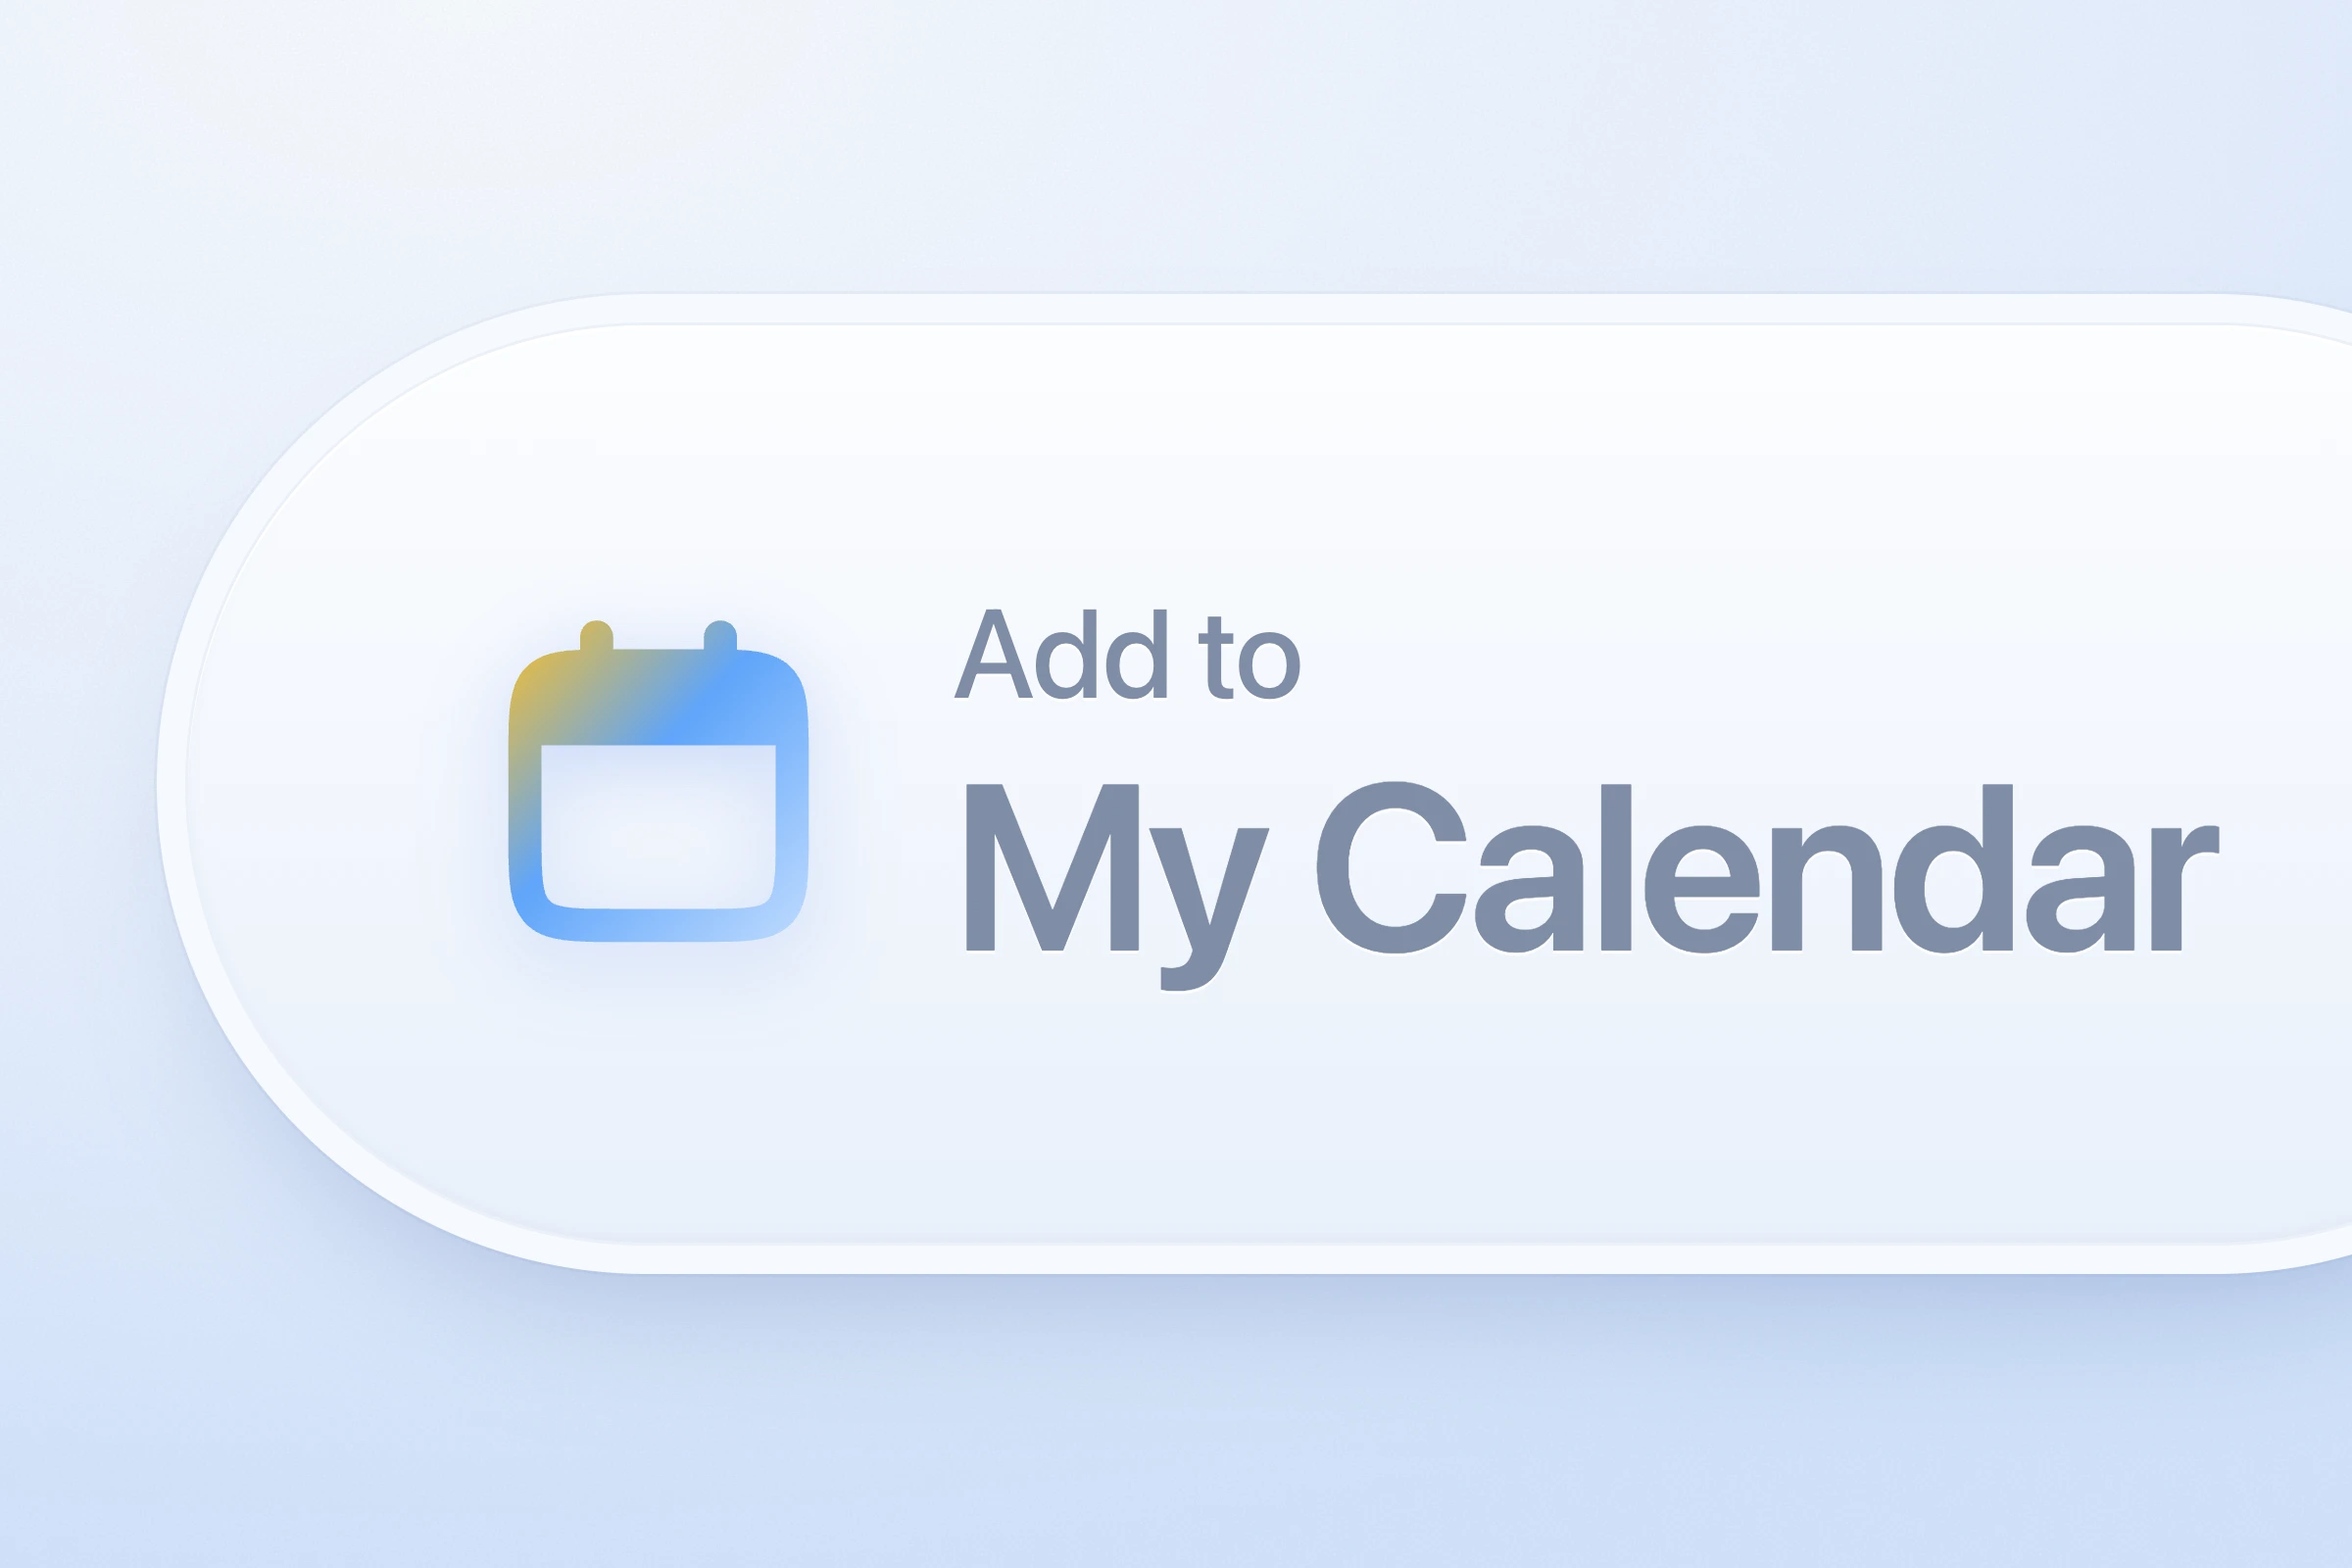
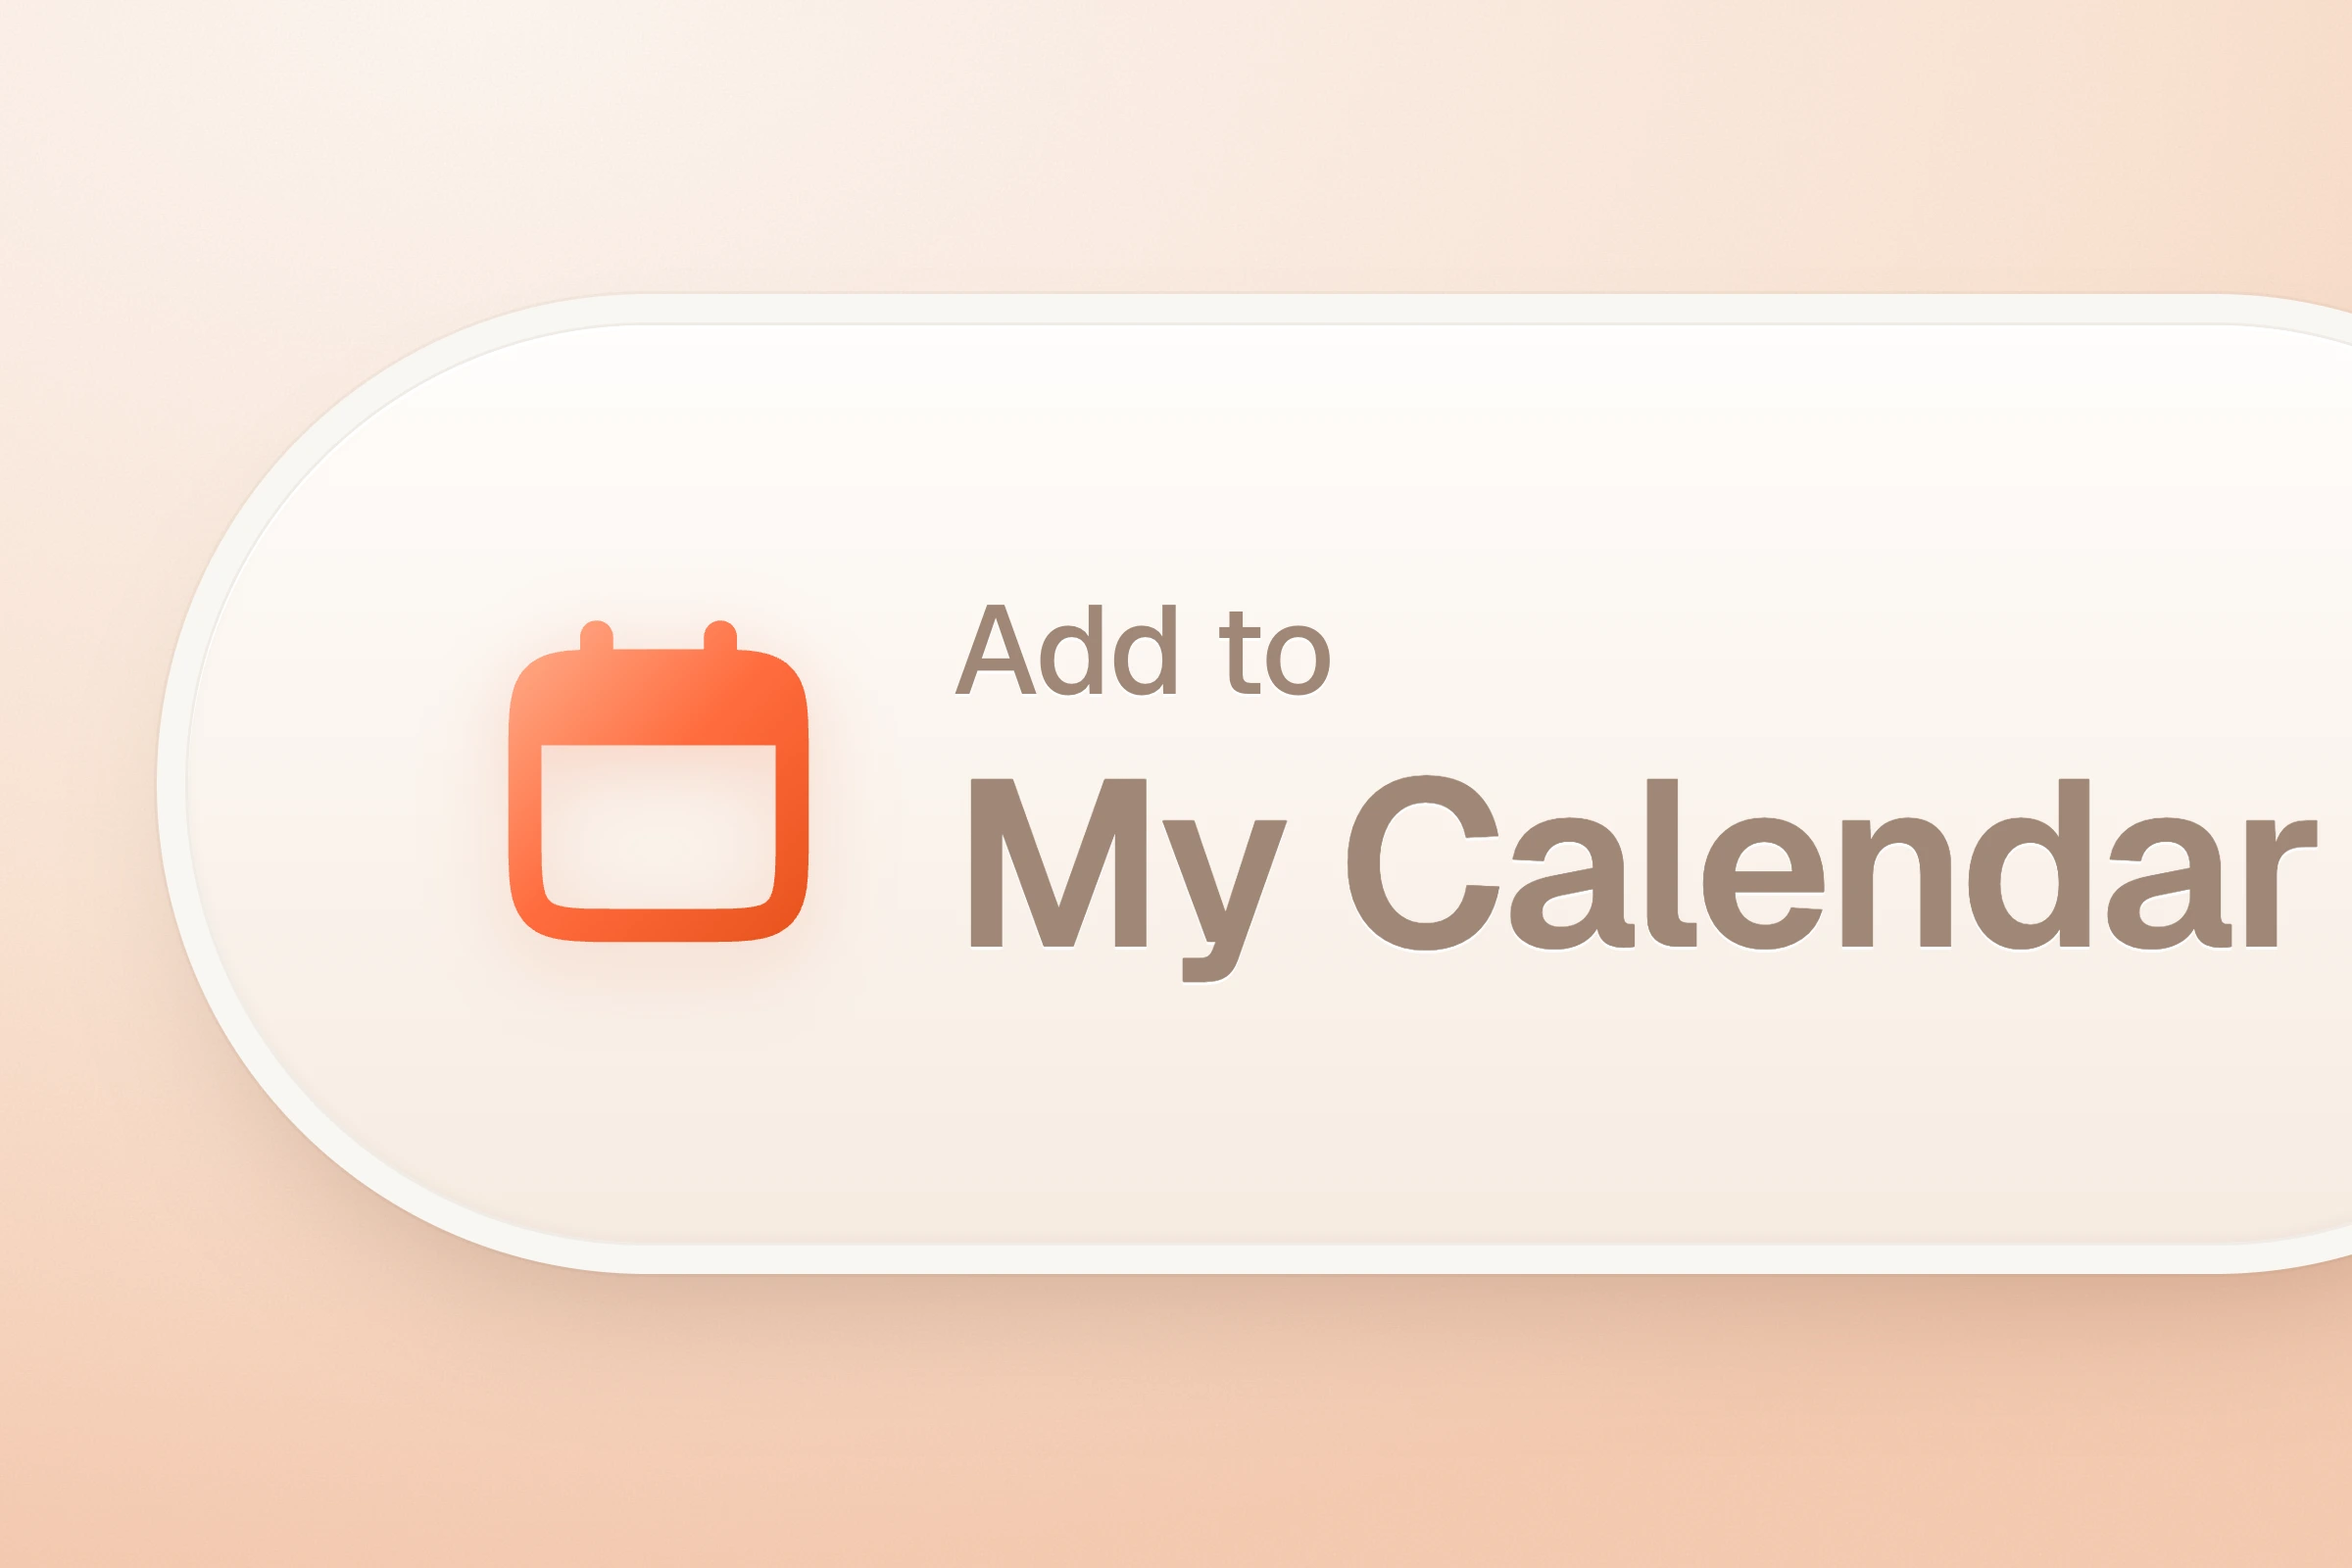
Website: calendar scene back, hero proof row, README badges, sponsor button
Add to calendar returns (seven screens) on a soft peach brand gradient, with the scene's blue-grey text and cool fill warmed; the clouds frame shares that gradient. The New in 1.3 strip is removed from home (the /icons filter and tags stay). Live GitHub stars and weekly npm downloads now sit under the hero buttons. README: tangerine colour examples, stars/npm/pub.dev/license badges, a Support section. .github/FUNDING.yml adds the Sponsor button (needs GitHub Sponsors enabled for Sarthak102).

diff --git a/web/src/components/scenes/Scenes.tsx b/web/src/components/scenes/Scenes.tsx
@@ -32,7 +32,7 @@ function Frame({ dark, soft, photo, children }: { dark?: boolean; soft?: boolean
     : dark
       ? `${noise("1", 0.05)}, radial-gradient(110% 90% at 50% 0%, #2a1d16, #0b0b0d 70%)`
       : soft
-        ? `${noise("0.05", 0.05)}, radial-gradient(120% 100% at 20% 0%, #fdfaf6, #f6efe7 60%, #efe4d8)`
+        ? `${noise("0.05", 0.05)}, radial-gradient(120% 100% at 20% 0%, #fff8f2, #fde6d6 58%, #f8cdb3)`
         : `${noise("0.05", 0.06)}, radial-gradient(120% 100% at 30% 0%, #fdfaf6, #f3e9df 58%, #ead9c8)`;
   return (
     <div className={`relative h-[800px] w-[1200px] overflow-hidden ${dark ? "text-[#e7f0ff]" : "text-[#141412]"}`} style={{ background: bg }}>
@@ -843,17 +843,17 @@ function AddCalendar() {
   return (
     <Frame soft>
       <div className="absolute left-[80px] top-[150px] h-[500px] w-[1300px] rounded-full bg-[#f8f6f2] p-[16px] shadow-[0_0_0_1.5px_rgb(80_45_20/0.04),0_40px_80px_-40px_rgb(80_45_20/0.3)]">
-        <div className="flex h-full items-center gap-[60px] rounded-full bg-[linear-gradient(180deg,#fffdfb,#e9f0fa)] pl-[150px] shadow-[inset_0_2px_0_#fff,inset_0_-2px_6px_rgb(80_45_20/0.04),0_0_0_1.5px_rgb(80_45_20/0.05)]">
+        <div className="flex h-full items-center gap-[60px] rounded-full bg-[linear-gradient(180deg,#fffdfb,#f6ebe1)] pl-[150px] shadow-[inset_0_2px_0_#fff,inset_0_-2px_6px_rgb(80_45_20/0.04),0_0_0_1.5px_rgb(80_45_20/0.05)]">
           <CalendarSolid size={180} color="url(#add-cal)" className="shrink-0 drop-shadow-[0_10px_20px_rgb(232_82_28/0.22)]">
             <defs>
               <linearGradient id="add-cal" x1="0" y1="0" x2="1" y2="1">
-                <stop offset="0" stopColor="#fbbf24" />
-                <stop offset=".45" stopColor="#ff8a63" />
-                <stop offset="1" stopColor="#fcd2bf" />
+                <stop offset="0" stopColor="#ffb08f" />
+                <stop offset=".5" stopColor="#ff6b3d" />
+                <stop offset="1" stopColor="#e8521c" />
               </linearGradient>
             </defs>
           </CalendarSolid>
-          <div className="leading-none text-[#7f8da6] [text-shadow:0_1.5px_0_#fff]">
+          <div className="leading-none text-[#a08878] [text-shadow:0_1.5px_0_#fff]">
             <p className="text-[64px] font-medium tracking-[-0.01em]">Add to</p>
             <p className="mt-4 whitespace-nowrap text-[120px] font-semibold tracking-[-0.02em]">My Calendar</p>
           </div>

diff --git a/web/src/app/globals.css b/web/src/app/globals.css
@@ -663,20 +663,11 @@ input[type="range"]:disabled { opacity: 0.35; }
 @media (max-width: 560px) { .gh svg + .gh-n { display: none; } }
 @media (max-width: 640px) { .nav-end .btn { display: none; } .nav-inner { gap: 16px; } }
 
-/* New in the latest release */
-.new-strip { margin-top: -72px; padding-bottom: 72px; }
-.new-head { display: flex; flex-wrap: wrap; align-items: center; gap: 12px 16px; }
-.new-head p { margin: 0; color: var(--text-2); }
-.new-head p b { color: var(--text); font-weight: 500; }
-.new-all { margin-left: auto; display: inline-flex; align-items: center; gap: 6px; font-size: 14px; color: var(--accent-text); }
-.new-all svg { transition: transform var(--mid) var(--ease); }
-.new-all:hover svg { transform: translateX(3px); }
-.new-row { margin-top: 16px; display: grid; grid-template-columns: repeat(24, 1fr); gap: 6px; }
-@media (max-width: 1100px) { .new-row { grid-template-columns: repeat(12, 1fr); } }
-@media (max-width: 600px) { .new-row { grid-template-columns: repeat(8, 1fr); } .new-row a:nth-child(n+17) { display: none; } }
-.new-cell { position: relative; aspect-ratio: 1; display: grid; place-items: center; border-radius: 10px; border: 1px solid var(--line); background: var(--surface); color: var(--text-2); transition: color var(--fast) var(--ease), background-color var(--fast) var(--ease); }
-.new-cell::after { content: ""; position: absolute; top: 5px; right: 5px; width: 5px; height: 5px; border-radius: 50%; background: var(--accent); }
-.new-cell:hover { color: var(--accent); background: var(--accent-soft); }
+/* Hero proof row: live stars and weekly downloads */
+.proof { margin-top: 24px; display: flex; flex-wrap: wrap; align-items: center; gap: 8px 20px; font-size: 13px; color: var(--text-3); }
+.proof a { display: inline-flex; align-items: center; gap: 7px; transition: color var(--fast) var(--ease); }
+.proof a:hover { color: var(--text); }
+.proof .gh-n { padding-left: 2px; }
 
 /* ⌘K search */
 .nav-search { display: inline-flex; align-items: center; gap: 8px; height: 32px; padding: 0 6px 0 10px; border-radius: 8px; border: 1px solid var(--line); color: var(--text-3); font-size: 13px; transition: color var(--fast) var(--ease), background-color var(--fast) var(--ease); }

diff --git a/web/src/components/home/Hero.tsx b/web/src/components/home/Hero.tsx
@@ -1,6 +1,9 @@
 import Link from "next/link";
 import { ArrowRightIcon } from "@softstroke/react";
-import { siAngular, siExpo, siFlutter, siJsdelivr, siNextdotjs, siNpm, siReact, siSvelte, siSvg, siVuedotjs } from "simple-icons";
+import { siAngular, siExpo, siFlutter, siGithub, siJsdelivr, siNextdotjs, siNpm, siReact, siSvelte, siSvg, siVuedotjs } from "simple-icons";
+import { GITHUB_URL } from "@/lib/site";
+import { Downloads } from "../Downloads";
+import { Stars } from "../Stars";
 import { nodes } from "@/lib/glyph";
 import { CopyCommand } from "../CopyCommand";
 import { IconsLink } from "../IconsLink";
@@ -35,6 +38,11 @@ export function Hero() {
                 Browse icons <ArrowRightIcon size={18} className="arrow" />
               </IconsLink>
               <CopyCommand command="npm i @softstroke/react" />
+            </div>
+            <div className="proof fade-in" style={{ animationDelay: "650ms" }}>
+              <a href={GITHUB_URL}><Brand logo={siGithub} size={15} />GitHub<Stars /></a>
+              <a href="https://www.npmjs.com/org/softstroke"><Brand logo={siNpm} size={15} />npm<Downloads /></a>
+              <span>MIT licensed</span>
             </div>
           </div>
           <Specimen items={items} />

diff --git a/web/src/components/use-cases.ts b/web/src/components/use-cases.ts
@@ -5,6 +5,7 @@ export type UseCase = { id: string; title: string; body: string; icons: string[]
 export const USE_CASES: UseCase[] = [
   { id: "bento", title: "App cards", body: "Weather, health, smart home and music cards. Tabs rest in stroke, the active one turns solid.", icons: ["inbox", "calendar", "sticky-note", "bookmark", "cloud-sun", "moon"] },
   { id: "soft-menu", title: "Account menu", body: "A soft dropdown with icons at 38px, next to large text.", icons: ["user", "puzzle", "sliders", "help-circle", "log-out"] },
+  { id: "add-calendar", title: "Call to action", body: "A big double-rimmed button with the solid calendar, filled with a gradient through the color prop.", icons: ["calendar"] },
   { id: "dashboard", title: "Analytics dashboard", body: "Sidebar navigation, stat cards and toolbar buttons at 20 to 22px.", icons: ["home", "bar-chart", "inbox", "users", "credit-card", "bell"] },
   { id: "clouds-bar", title: "Glass tab bar", body: "White stroke icons on frosted glass over a photo.", icons: ["home", "search-sparkle", "bookmark"] },
   { id: "glass-bar", title: "Floating tab bar", body: "The active tab in solid, the rest in stroke.", icons: ["home", "map-pin", "bag", "settings", "search"] },

diff --git a/web/src/app/page.tsx b/web/src/app/page.tsx
@@ -6,7 +6,6 @@ import { IconRows } from "@/components/home/IconRows";
 import { Install } from "@/components/home/Install";
 import { LiveScreens } from "@/components/home/LiveScreens";
 import { Maker } from "@/components/home/Maker";
-import { NewStrip } from "@/components/home/NewStrip";
 import { Sheet } from "@/components/home/Sheet";
 import { States } from "@/components/home/States";
 import { Stats } from "@/components/home/Stats";
@@ -21,7 +20,6 @@ export default function Home() {
         <IconRows />
         <States />
         <Sheet />
-        <NewStrip />
         <Cases />
         <LiveScreens />
         <Install />

diff --git a/web/src/components/home/Cases.tsx b/web/src/components/home/Cases.tsx
@@ -6,7 +6,7 @@ import { CasesPin } from "./CasesPin";
 // 03: the use cases in a pinned gallery that scrolls sideways.
 export function Cases() {
   return (
-    <CasesPin count={USE_CASES.length} head={<><p className="eyebrow"><b>03</b> Use cases</p><h2 className="display h2" data-split><Words>Six screens, one icon set</Words></h2></>}>
+    <CasesPin count={USE_CASES.length} head={<><p className="eyebrow"><b>03</b> Use cases</p><h2 className="display h2" data-split><Words>Seven screens, one icon set</Words></h2></>}>
       {USE_CASES.map((c, i) => <CaseCard key={c.id} c={c} i={i} />)}
     </CasesPin>
   );

diff --git a/README.md b/README.md
@@ -9,6 +9,13 @@
 </p>
 
 <p align="center">
+  <a href="https://github.com/softstroke/softstroke/stargazers"><img src="https://img.shields.io/github/stars/softstroke/softstroke?style=flat&color=e8521c&labelColor=141412" alt="GitHub stars"></a>
+  <a href="https://www.npmjs.com/package/@softstroke/react"><img src="https://img.shields.io/npm/dw/@softstroke/react?style=flat&color=e8521c&labelColor=141412&label=npm" alt="Weekly npm downloads"></a>
+  <a href="https://pub.dev/packages/softstroke"><img src="https://img.shields.io/pub/v/softstroke?style=flat&color=e8521c&labelColor=141412&label=pub.dev" alt="pub.dev version"></a>
+  <a href="LICENSE"><img src="https://img.shields.io/badge/license-MIT-e8521c?style=flat&labelColor=141412" alt="MIT license"></a>
+</p>
+
+<p align="center">
   <a href="https://softstroke.github.io/softstroke/"><strong>Browse the icons</strong></a>
   &nbsp;·&nbsp;
   <a href="https://softstroke.github.io/softstroke/docs/">Docs</a>
@@ -54,7 +61,7 @@ import { HomeIcon, BellIcon } from '@softstroke/react';
 import { HomeIcon as HomeSolidIcon } from '@softstroke/react/solid';
 
 <HomeIcon />                                   // 24px, inherits the text color
-<HomeSolidIcon color="#2563eb" />              // the same icon, solid
+<HomeSolidIcon color="#e8521c" />              // the same icon, solid
 <BellIcon size={20} strokeWidth={2} aria-label="Notifications" />
 ```
 
@@ -97,7 +104,7 @@ import { HomeIcon as HomeSolidIcon } from '@softstroke/vue/solid';
 
 <template>
   <HomeIcon :size="24" />
-  <HomeSolidIcon color="#2563eb" />
+  <HomeSolidIcon color="#e8521c" />
 </template>
 ```
 </details>
@@ -116,7 +123,7 @@ npm i @softstroke/svelte
 </script>
 
 <HomeIcon size={24} />
-<HomeSolidIcon color="#2563eb" />
+<HomeSolidIcon color="#e8521c" />
 ```
 </details>
 
@@ -135,7 +142,7 @@ import { HomeIcon as HomeSolidIcon } from '@softstroke/angular/solid';
 
 @Component({
   imports: [HomeIcon, HomeSolidIcon],
-  template: `<ss-home [size]="24" /> <ss-home-solid color="#2563eb" aria-label="Home" />`,
+  template: `<ss-home [size]="24" /> <ss-home-solid color="#e8521c" aria-label="Home" />`,
 })
 export class Toolbar {}
 ```
@@ -225,6 +232,10 @@ python3 scripts/bbox.py <names>           Live area and centring
 .venv/bin/python scripts/font.py          Rebuild the icon font
 npm run site                              Build the website into web/out
 ```
+
+## Support
+
+Softstroke is free and made by one person. If it saves you time, a star helps others find it, and you can sponsor new icons with the **Sponsor** button at the top of the repo.
 
 ## License
 
